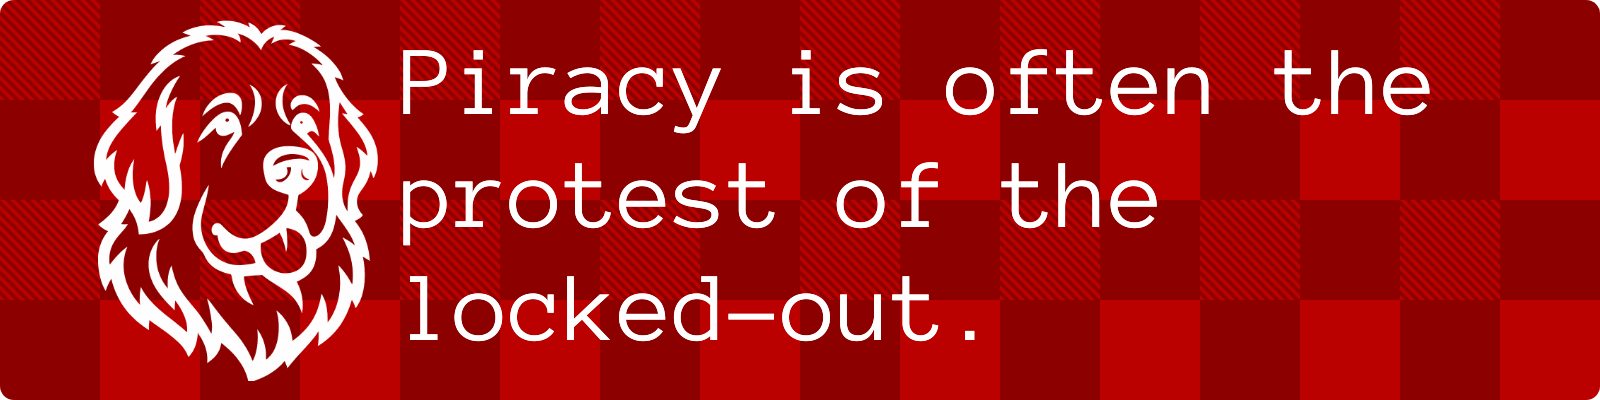
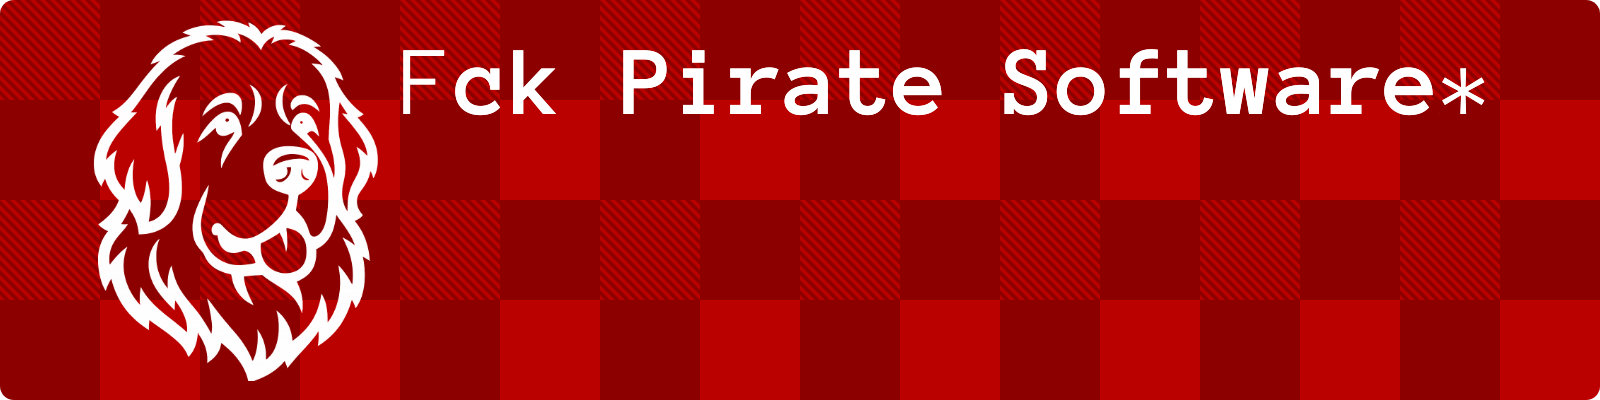
New Newfies Quote

diff --git a/README.md b/README.md
@@ -17,7 +17,7 @@ Hello, its Newfies! I am a self taught, highly neurodivergent individual. I am l
 </h3>
 
 <!--QUOTE-START-->
-![Quote](https://raw.githubusercontent.com/Newfies/Newfies/refs/heads/main/res/quote.png?1774146464)
+![Quote](https://raw.githubusercontent.com/Newfies/Newfies/refs/heads/main/res/quote.png?1774156748)
 <!--QUOTE-END-->
 
 <h3>
